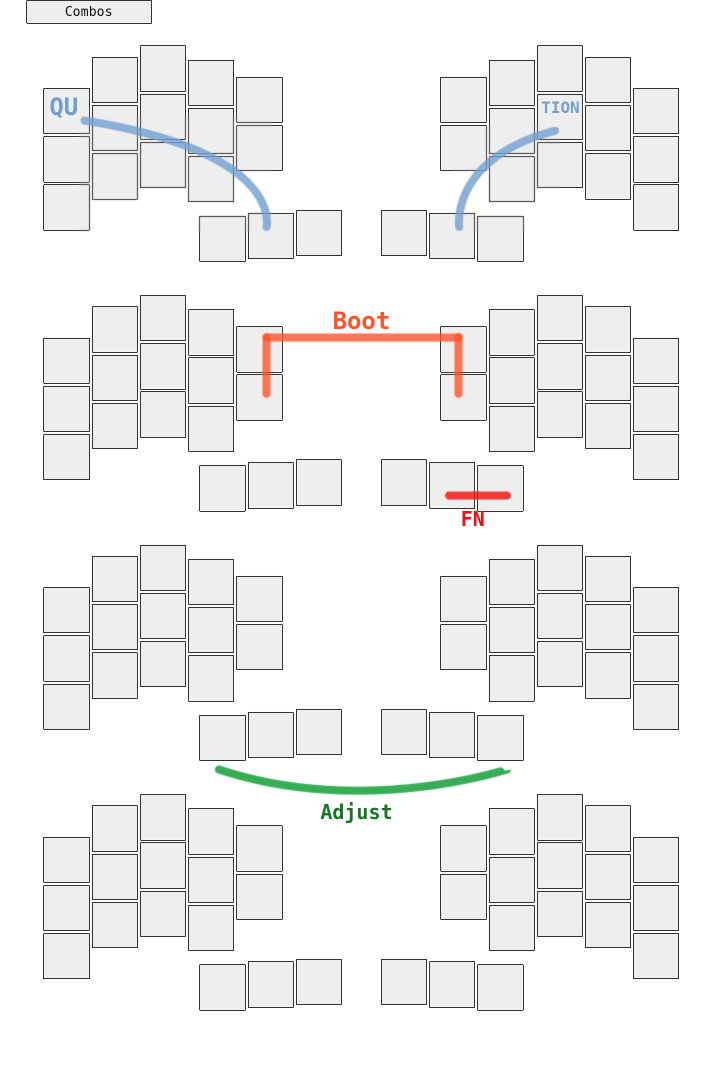
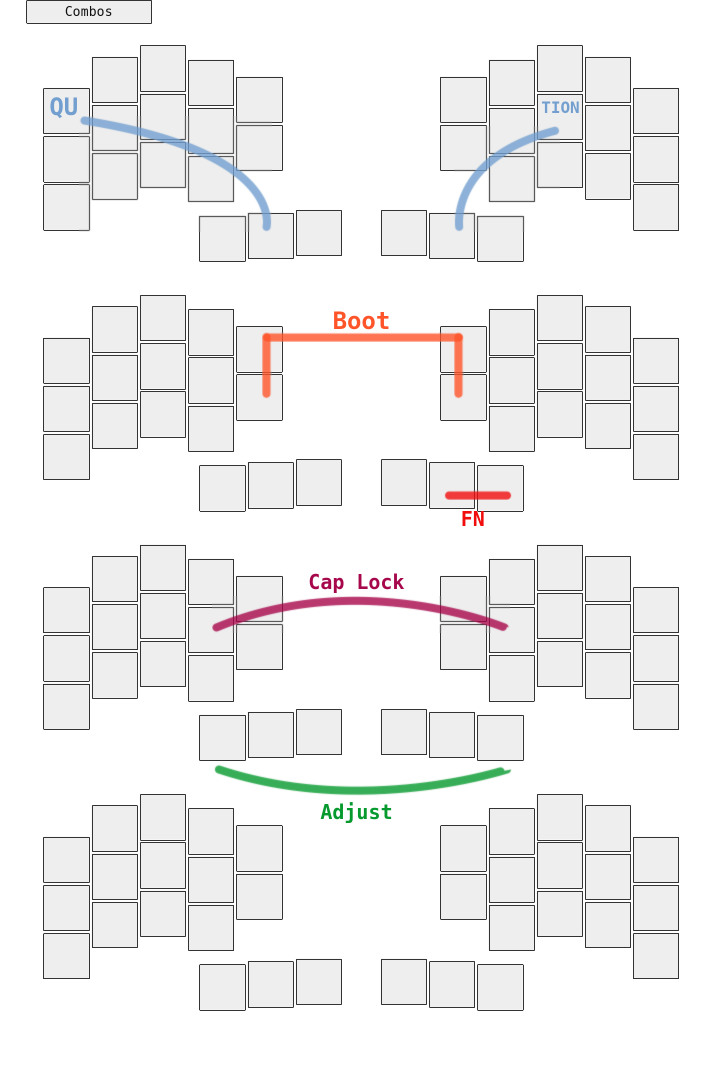
Move -_ on thumbs

Changed region(s): [[0.3056, 0.5243, 0.7028, 0.586], [0.4583, 0.7402, 0.55, 0.771]]

diff --git a/keymap.c b/keymap.c
@@ -34,9 +34,9 @@ const uint16_t PROGMEM keymaps[][MATRIX_ROWS][MATRIX_COLS] = {
 
     [_ARROWS] = LAYOUT(
     //----------------+-------------+-------------+-------------+----------|       |----------+-------------+-------------+-------------+-------------|
-            KC_AT     ,   KC_LBRC   ,   KC_AMPR   ,   KC_RBRC   ,  KC_GRV  ,          XXXXXXX ,   KC_HOME   , KC_PAGE_DOWN,  KC_PAGE_UP ,   KC_END    ,
+            KC_AT     ,   KC_LBRC   ,   KC_AMPR   ,   KC_RBRC   ,  XXXXXXX ,          XXXXXXX ,   KC_HOME   , KC_PAGE_DOWN,  KC_PAGE_UP ,   KC_END    ,
     //----------------+-------------+-------------+-------------+----------|       |----------+-------------+-------------+-------------+-------------|
-           KC_DQUO    ,   KC_LPRN   ,   KC_QUOTE  ,   KC_RPRN   ,  XXXXXXX ,          QK_LEAD ,   KC_LEFT   ,   KC_DOWN   ,    KC_UP    ,   KC_RIGHT  ,
+           KC_DQUO    ,   KC_LPRN   ,   KC_QUOTE  ,   KC_RPRN   ,  KC_GRV  ,          QK_LEAD ,   KC_LEFT   ,   KC_DOWN   ,    KC_UP    ,   KC_RIGHT  ,
     //----------------+-------------+-------------+-------------+----------|       |----------+-------------+-------------+-------------+-------------|
            XXXXXXX    ,   KC_LCBR   ,   KC_PIPE   ,   KC_RCBR   ,                                 KC_BSPC   ,    KC_TAB   ,  S(KC_TAB)  ,   KC_DEL    ,
     //----------------+-------------+-------------+-------------|                             |-------------+-------------+-------------+-------------|

diff --git a/features/combo.c b/features/combo.c
@@ -31,9 +31,7 @@ enum combos {
   LAYER_ADJ,
   LAYER_FN,
 
-  /* -- */
-  // CAP_WORD,
-  // CAP_LOCK,
+  CAP_LOCK,
 
   QU,
   TION,
@@ -50,9 +48,7 @@ const uint16_t PROGMEM combo_bootloader[] = {KC_BSPC, KC_L, KC_V, KC_F, COMBO_EN
 const uint16_t PROGMEM combo_adj[] = {MO(_MOUSE), MO(_ARROWS), COMBO_END};
 const uint16_t PROGMEM combo_fn[] = {MO(_NUMERIC), MO(_ARROWS), COMBO_END};
 
-/* -- */
-// const uint16_t PROGMEM combo_cap_word[] = {MO(_NUMERIC), KC_U, COMBO_END};
-// const uint16_t PROGMEM combo_cap_lock[] = {MO(_ARROWS), KC_U, COMBO_END};
+const uint16_t PROGMEM combo_cap_lock[] = {SFT_T(KC_N), SFT_T(KC_R), COMBO_END};
 
 /* -- */
 const uint16_t PROGMEM combo_qu[] = {KC_SPACE, KC_Q, COMBO_END};
@@ -66,9 +62,7 @@ combo_t key_combos[] = {
     [LAYER_ADJ] = COMBO(combo_adj, MO(_ADJ)),
     [LAYER_FN] = COMBO(combo_fn, MO(_FN)),
 
-    /* -- */
-    // [CAP_WORD] = COMBO(combo_cap_word, QK_CAPS_WORD_TOGGLE),
-    // [CAP_LOCK] = COMBO(combo_cap_lock, KC_CAPS_LOCK),
+    [CAP_LOCK] = COMBO(combo_cap_lock, KC_CAPS_LOCK),
 
     [QU] = COMBO(combo_qu, CS_QU),
     [TION] = COMBO(combo_tion, CS_TION),

diff --git a/config.h b/config.h
@@ -39,11 +39,7 @@
   #endif
 #endif
 
-/* Auto shift ♥ */
-// #define AUTO_SHIFT_TIMEOUT 130
 #define TAPPING_TERM 200
-
-/* Combos ♥ ♥ */
 #define COMBO_TERM 30
 // #define COMBO_ONLY_FROM_LAYER 0
 
@@ -54,9 +50,6 @@
 #define LEADER_PER_KEY_TIMING
 #define LEADER_TIMEOUT 280
 #define LEADER_NO_TIMEOUT
-
-/* Cap word */
-#define CAPS_WORD_IDLE_TIMEOUT 5000
 
 /* LEDs */
 #define WS2812_BYTE_ORDER WS2812_BYTE_ORDER_HSV
